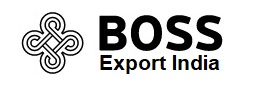
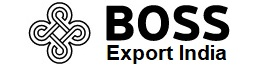
vivek

diff --git a/index.html b/index.html
@@ -42,7 +42,7 @@
   <!-- ======= Header ======= -->
   <header id="header" class="fixed-top d-flex align-items-center">
     <div class="container d-flex align-items-center">
-      <h1 class="logo me-auto"><a href="index.html">Boss Export <span class="bosslogo">India</span><span>.</span></a></h1>
+      <h1 class="logo me-auto"><a href="index.html"><img src="assets/img/clients/client-52.jpg" class="img-fluid" alt=""></a></h1>
       <!-- Uncomment below if you prefer to use an image logo -->
       <!-- <a href="index.html" class="logo me-auto"><img src="assets/img/logo.png" alt=""></a>-->
 
